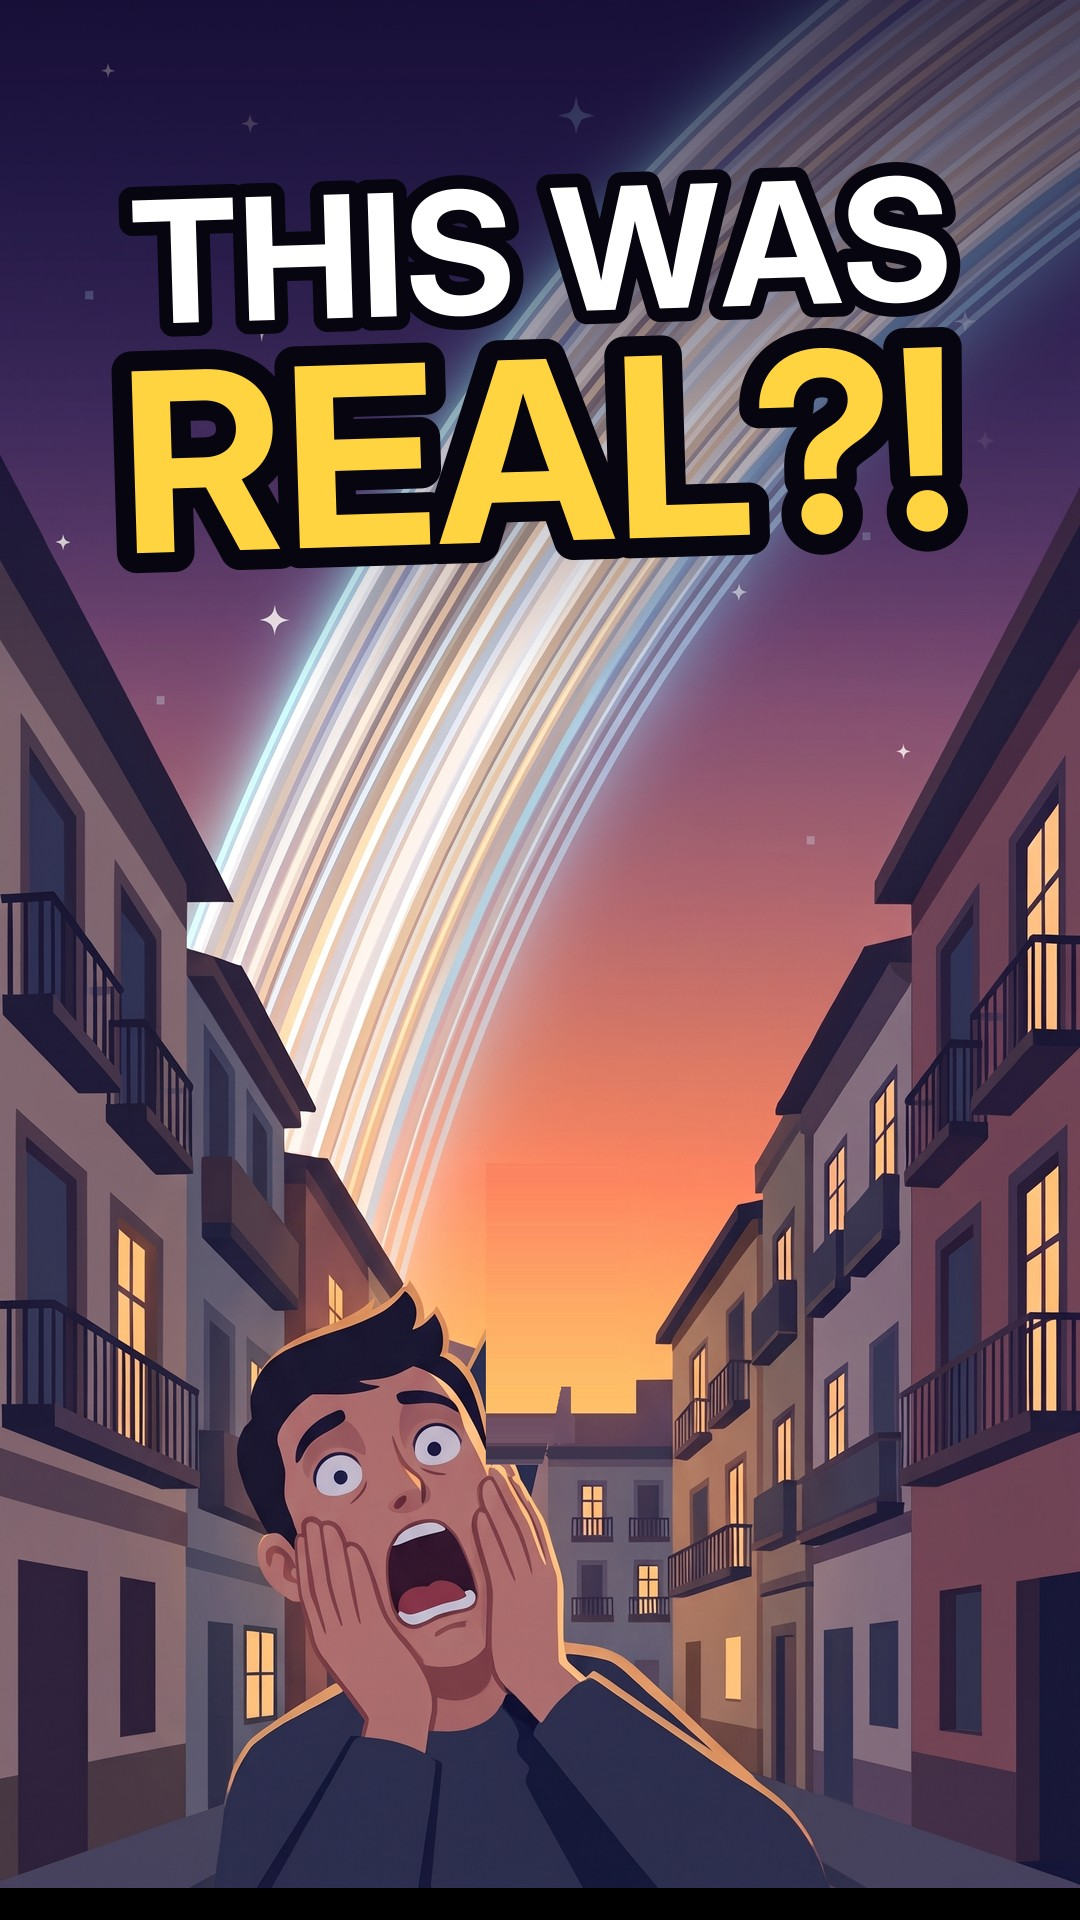
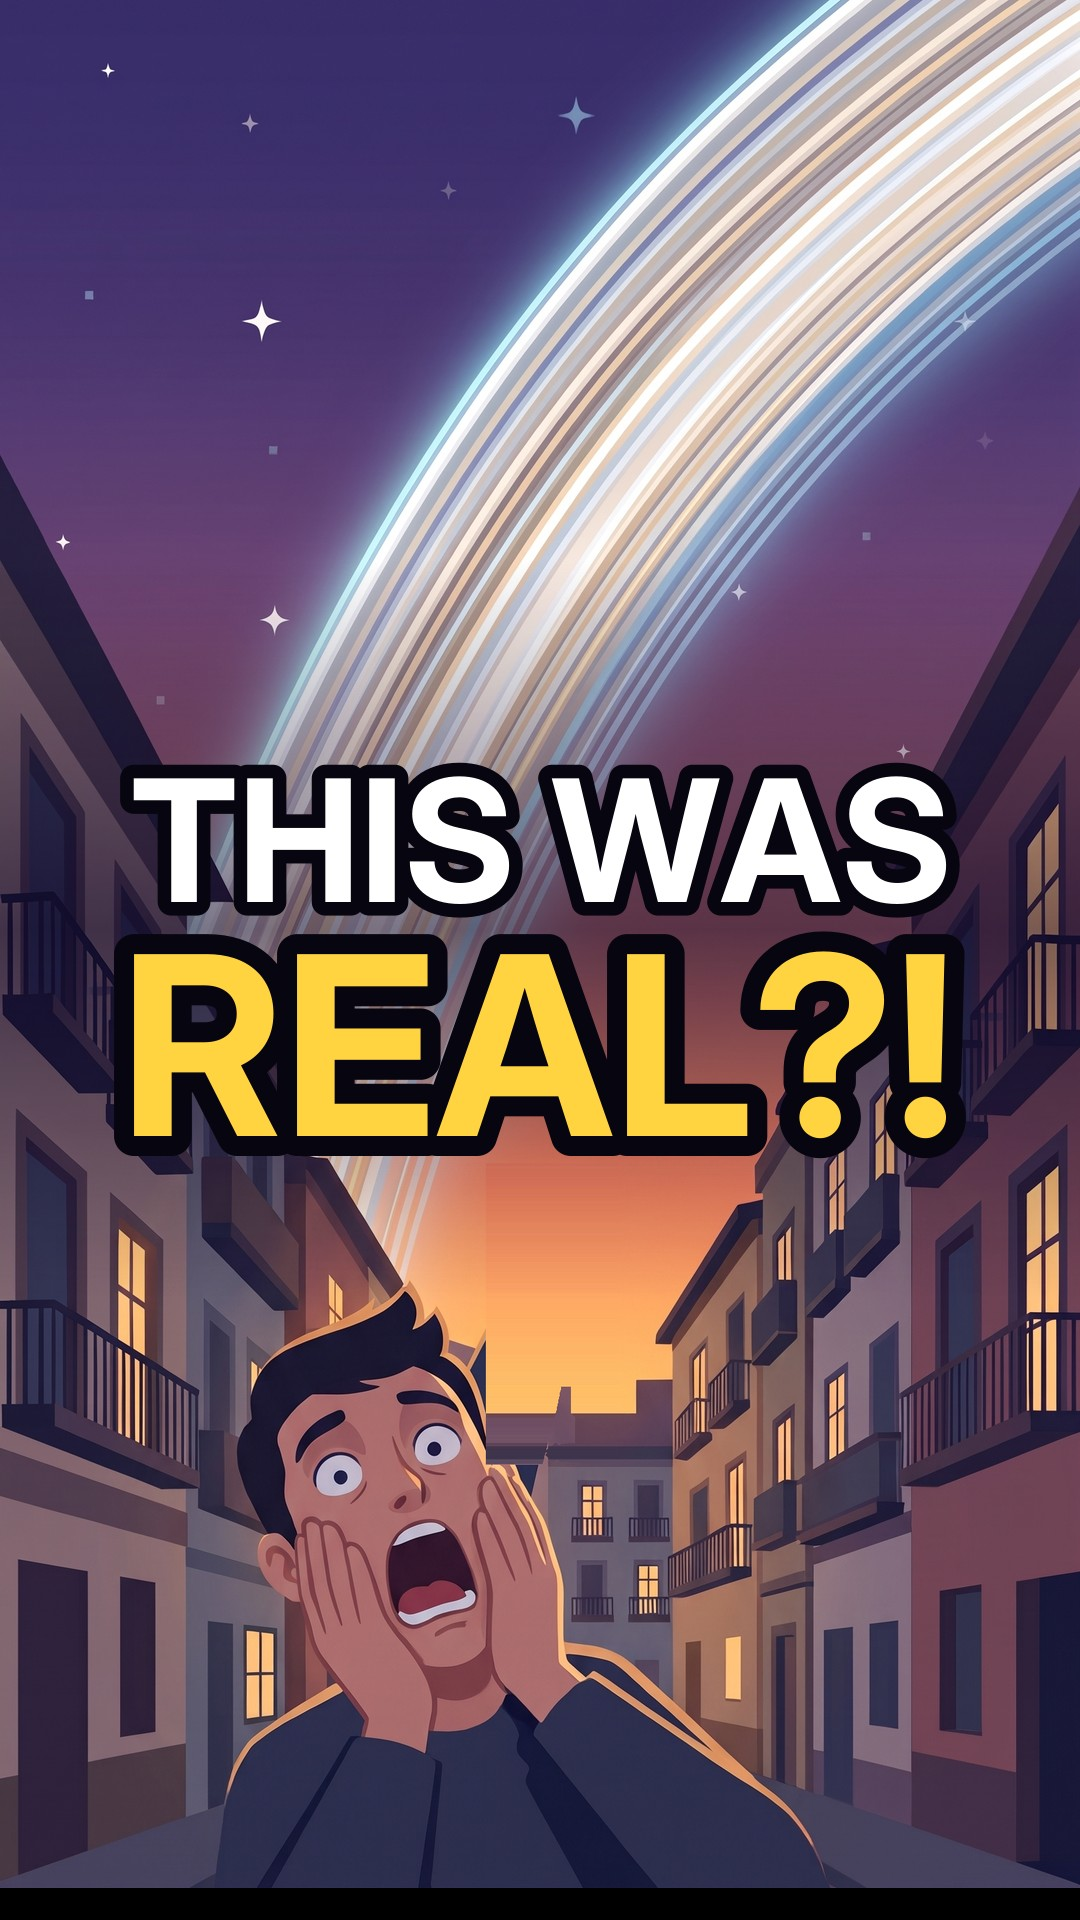
EP007: capa com o texto centrado (pedido do dono), reaplicada
Claude-Session: https://claude.ai/code/session_01BxdGr1hg5oaKT9P6FjmEEj

diff --git a/ep007/thumb_ep007.py b/ep007/thumb_ep007.py
@@ -9,7 +9,8 @@ a = np.array(im); buf = np.zeros((H, W, 4), np.uint8); buf[..., :3] = a[..., ::-
 bg = cairo.ImageSurface.create_for_data(buf, cairo.FORMAT_ARGB32, W, H)
 s = cairo.ImageSurface(cairo.FORMAT_ARGB32, W, H); c = cairo.Context(s)
 c.set_source_surface(bg, 0, 0); c.paint()
-g = cairo.LinearGradient(0, 0, 0, 700); g.add_color_stop_rgba(0, 0.05, 0.02, 0.15, 0.75); g.add_color_stop_rgba(1, 0.05, 0.02, 0.15, 0)
+g = cairo.LinearGradient(0, 560, 0, 1300)   # faixa escura suave atrás do texto, no centro da imagem
+g.add_color_stop_rgba(0, 0.05, 0.02, 0.15, 0); g.add_color_stop_rgba(0.5, 0.05, 0.02, 0.15, 0.55); g.add_color_stop_rgba(1, 0.05, 0.02, 0.15, 0)
 c.set_source(g); c.paint()
 def text(s_, x, y, size, col, rot=0.0):
     c.save(); c.translate(x, y); c.rotate(rot)
@@ -17,8 +18,8 @@ def text(s_, x, y, size, col, rot=0.0):
     e = c.text_extents(s_); c.move_to(-e.width / 2 - e.x_bearing, -e.height / 2 - e.y_bearing); c.text_path(s_)
     c.set_source_rgb(0.03, 0.02, 0.06); c.set_line_width(size * 0.16); c.set_line_join(cairo.LINE_JOIN_ROUND); c.stroke_preserve()
     c.set_source_rgb(*col); c.fill(); c.restore()
-text("THIS WAS", 540, 250, 170, (1, 1, 1), -0.03)
-text("REAL?!", 540, 450, 250, (1.0, 0.83, 0.25), -0.03)
+text("THIS WAS", 540, 840, 170, (1, 1, 1))
+text("REAL?!", 540, 1045, 250, (1.0, 0.83, 0.25))
 s.write_to_png("build/thumb.png")
 os.makedirs("../thumbnails", exist_ok=True)
 Image.open("build/thumb.png").convert("RGB").save("../thumbnails/ep007_thumb.jpg", quality=90)
